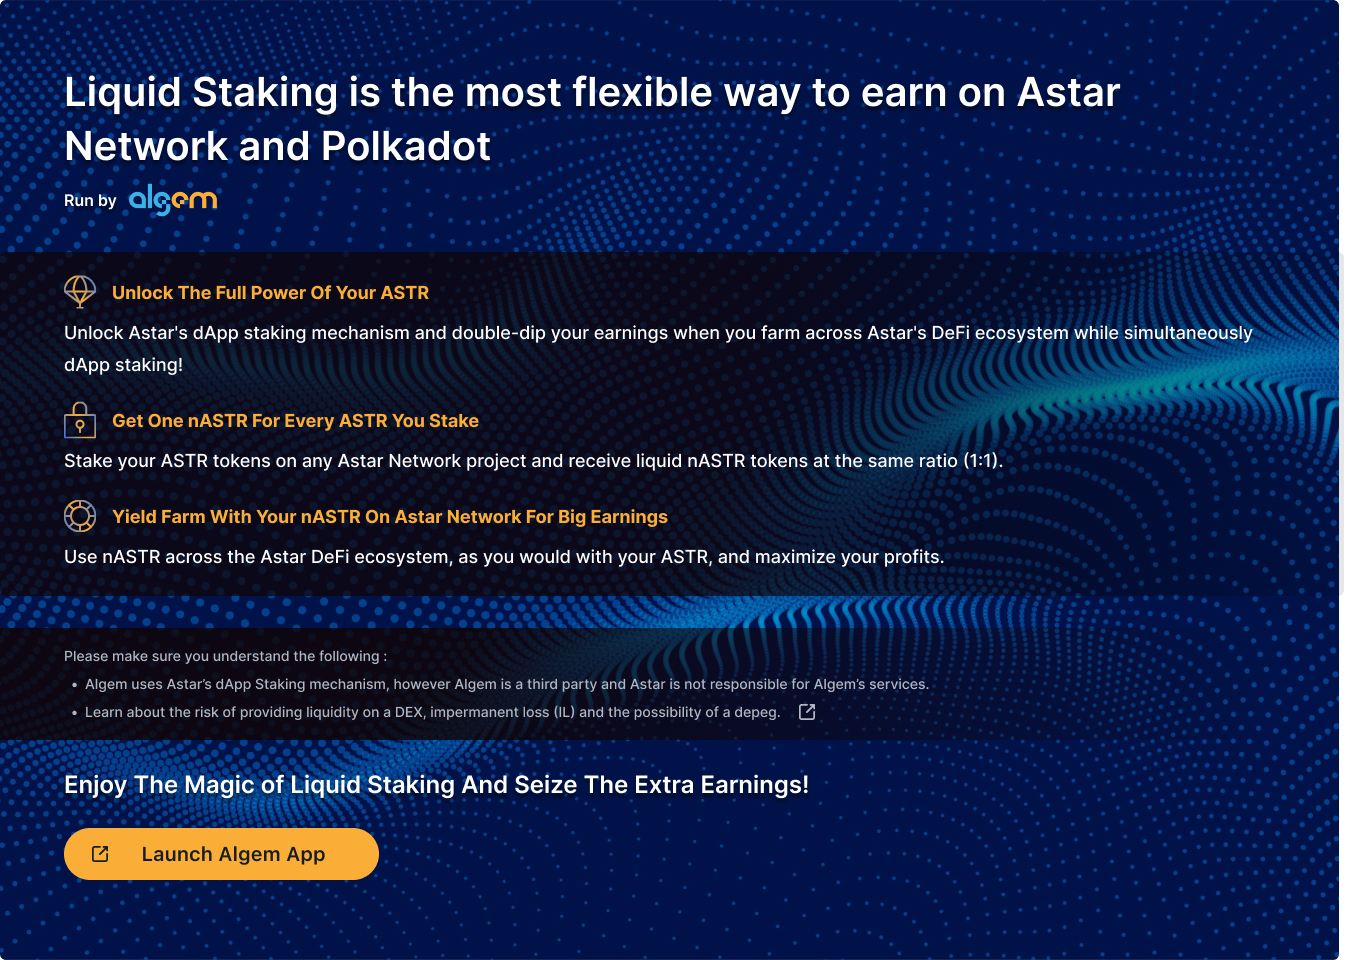
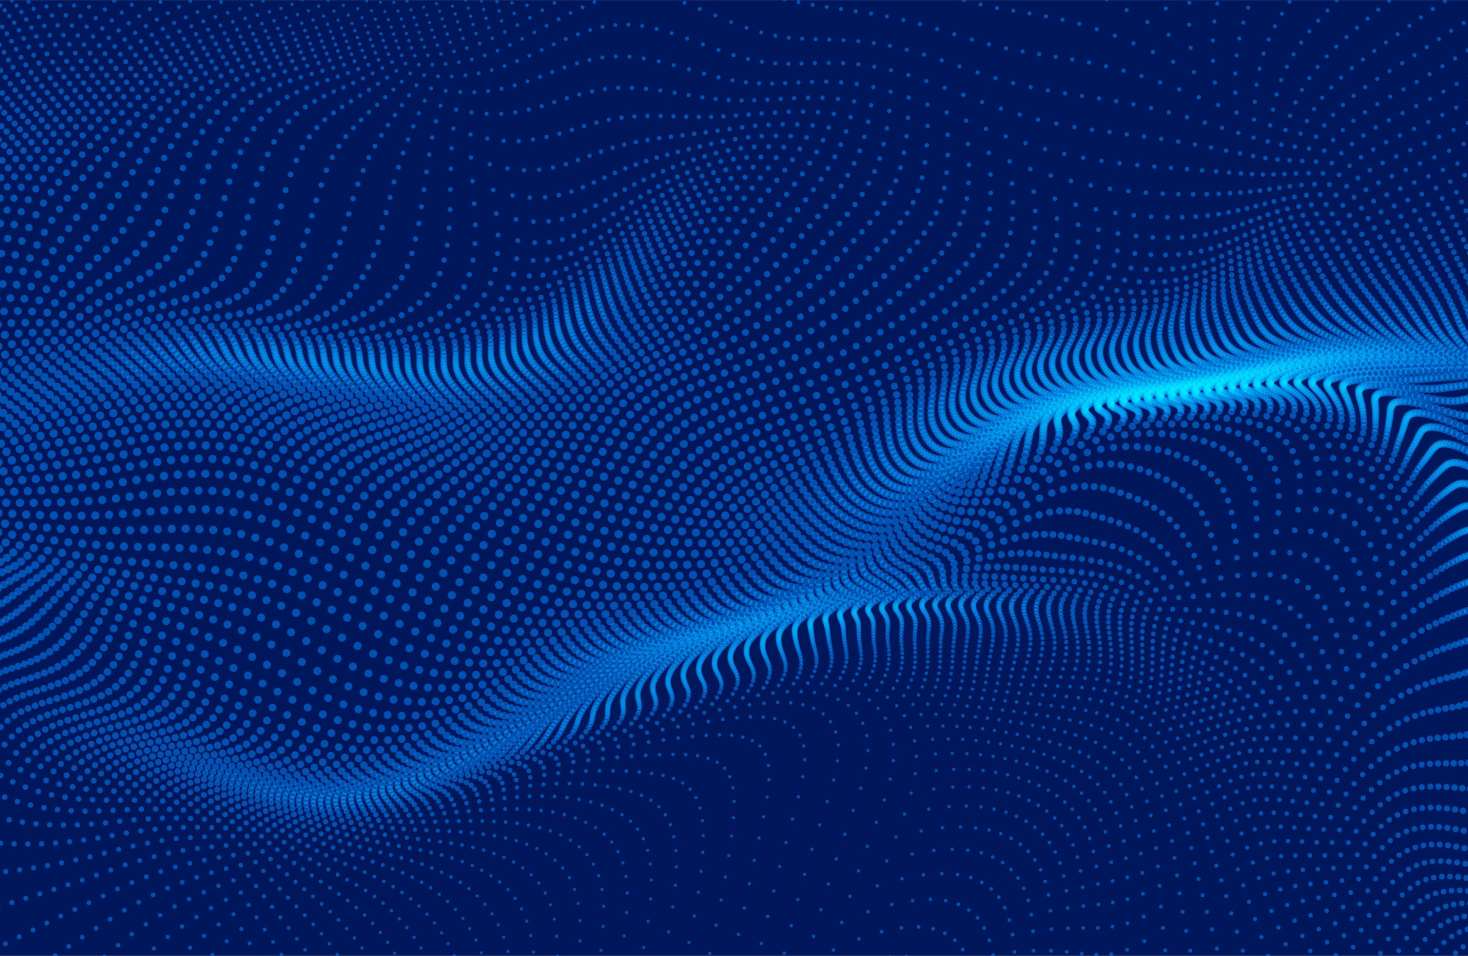
finish to implement algem-panel

diff --git a/src/components/dapp-staking/AlgemPanel.vue b/src/components/dapp-staking/AlgemPanel.vue
@@ -1,5 +1,8 @@
 <template>
-  <div class="liquid-wrapper">
+  <div
+    class="liquid-wrapper"
+    :style="`background-image: url('${require('/src/assets/img/algem/algem_landing.jpg')}')`"
+  >
     <div class="text--title">
       Liquid Staking is the most flexible way to earn on Astar Network and Polkadot
     </div>
@@ -42,13 +45,20 @@
         <li>
           Learn about the risk of providing liquidity on a DEX, impermanent loss (IL) and the
           possibility of a depeg.
+          <a
+            href="https://docs.algem.io/algem-protocol/liquid-staking/liquid-staking-faq"
+            target="_blank"
+            ><span class="icon-external"> <astar-icon-external-link /> </span
+          ></a>
         </li>
       </ul>
     </div>
     <div class="text--final">Enjoy The Magic of Liquid Staking And Seize The Extra Earnings!</div>
-    <button class="button btn--launch">
-      <span class="icon-external"><astar-icon-external-link /></span> Launch Algem App
-    </button>
+    <a href="https://app.algem.io/liquid-staking" target="_blank">
+      <button class="button btn--launch">
+        <span class="icon-external"><astar-icon-external-link /></span> Launch Algem App
+      </button>
+    </a>
   </div>
 </template>
 
@@ -65,6 +75,7 @@ export default defineComponent({
   padding-top: 64px;
   padding-bottom: 80px;
   background: linear-gradient(0deg, rgba(0, 0, 0, 0.2), rgba(0, 0, 0, 0.2));
+  margin-bottom: 50px;
 }
 
 .text--title {
@@ -83,6 +94,7 @@ export default defineComponent({
   line-height: 19px;
   color: #fff;
   margin-left: 64px;
+  margin-bottom: 36px;
   display: inline-flex;
   align-items: center;
 
@@ -93,7 +105,7 @@ export default defineComponent({
 
 .wrapper--feature {
   background: linear-gradient(270deg, rgba(0, 0, 0, 0) -7.41%, rgba(16, 4, 4, 0.7) 45.98%);
-  padding: 24px 64px;
+  padding: 12px 64px;
 }
 
 .text--subtitle {
@@ -101,11 +113,16 @@ export default defineComponent({
   font-weight: 700;
   font-size: 18px;
   line-height: 32px;
-  margin-top: 24px;
   display: inline-flex;
+  margin-top: 12px;
 
   img {
     margin-right: 16px;
+
+    @media (max-width: $md) {
+      width: 30px;
+      height: 30px;
+    }
   }
 }
 
@@ -113,7 +130,15 @@ export default defineComponent({
   font-weight: 500;
   font-size: 18px;
   line-height: 32px;
+  margin-bottom: 12px;
   color: #fff;
+}
+
+.icon-external {
+  stroke: $gray-6;
+  margin-left: 28px;
+  margin-right: 28px;
+  cursor: pointer;
 }
 
 .row--warn {
@@ -122,7 +147,7 @@ export default defineComponent({
   font-weight: 500;
   font-size: 14px;
   line-height: 24px;
-  color: #b1b7c1;
+  color: $gray-3;
   background: linear-gradient(270deg, rgba(16, 4, 4, 0) 4.77%, rgba(16, 4, 4, 0.8) 65.26%);
   margin-top: 32px;
   margin-bottom: 32px;
@@ -133,6 +158,14 @@ export default defineComponent({
   }
   li {
     margin-left: 25px;
+  }
+  .icon-external {
+    display: inline-flex;
+    position: relative;
+    top: 10px;
+    stroke: $gray-3;
+    margin-left: 2px;
+    margin-right: 0px;
   }
 }
 
@@ -159,11 +192,5 @@ export default defineComponent({
   font-size: 20px;
   margin-top: 32px;
   margin-left: 64px;
-}
-
-.icon-external {
-  stroke: $gray-6;
-  margin-left: 28px;
-  margin-right: 28px;
 }
 </style>

diff --git a/src/components/dapp-staking/DiscoverDappsTab.vue b/src/components/dapp-staking/DiscoverDappsTab.vue
@@ -205,14 +205,15 @@ export default defineComponent({
 
 .row--tab {
   display: flex;
-  justify-content: space-around;
   width: 100%;
-  margin-bottom: 24px;
+  margin-bottom: 50px;
+  gap: 80px;
+  justify-content: center;
 }
 
 .selected-staking-option {
   padding-bottom: 8px;
-  border-bottom: 3px solid $blue;
+  border-bottom: 3px solid $astar-blue-dark;
   transition: all 0.3s ease 0s;
 }
 
